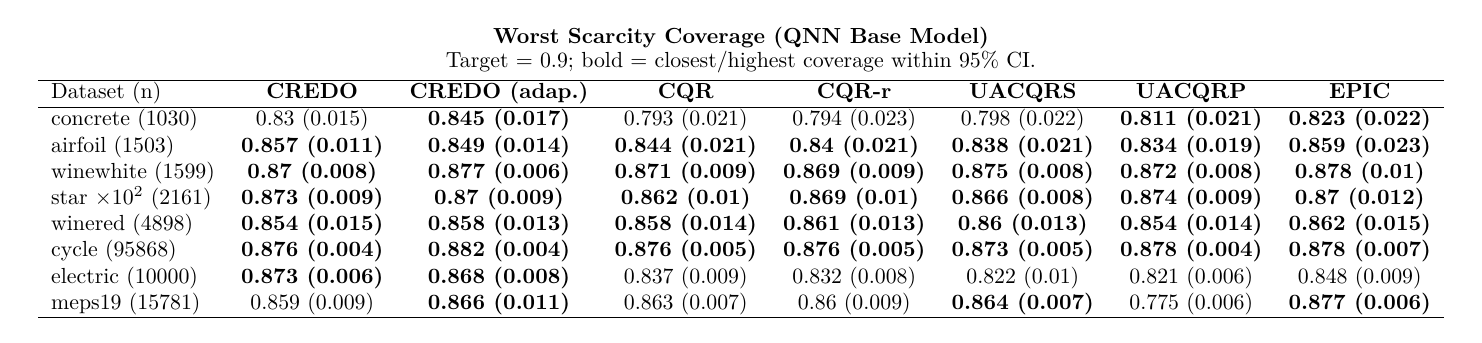
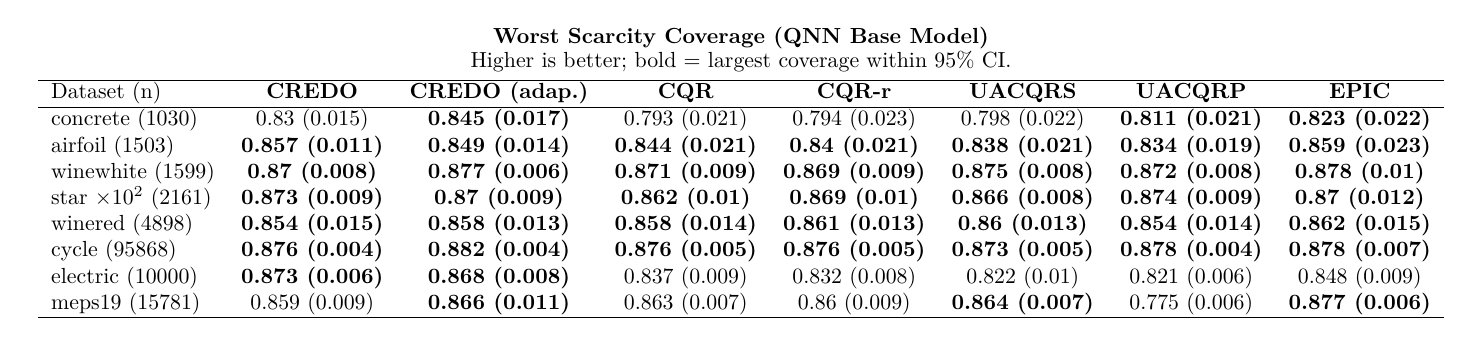
changing captions and also the performance tables

Changed region(s): [[0.3104, 0.1458, 0.7139, 0.2041]]

diff --git a/rebutal_images_and_tables/caption_table_worst_scarcity_coverage.md b/rebutal_images_and_tables/caption_table_worst_scarcity_coverage.md
@@ -1,1 +1,1 @@
-**Worst Scarcity Quantile Coverage (target $1 - \alpha = 0.90$):** Worst-case coverage across scarcity quantile bins, using QNN as the shared backbone across all methods. Observations are ranked by a kNN-based scarcity score and split into 4 bins, from the most populated to the most data-sparse regions. Parentheses show $2\times$ the standard deviation; bold marks the highest coverage within a 95\% confidence interval. While methods perform similarly on most datasets, CREDO consistently ranks among the top performers across all datasets, whereas competing methods fail to do so in at least one dataset.
+**Worst Scarcity Quantile Coverage (higher is better):** Worst-case coverage across scarcity quantile bins, using QNN as the shared backbone across all methods. Observations are ranked by a kNN-based scarcity score and split into 4 bins, from the most populated to the most data-sparse regions. Parentheses show $2\times$ the standard deviation; bold marks the highest coverage within a $95\%$ confidence interval. While methods perform similarly on most datasets, CREDO consistently ranks among the top performers across all datasets, whereas competing methods fail to do so in at least one dataset.

diff --git a/rebutal_images_and_tables/caption_table_smis.md b/rebutal_images_and_tables/caption_table_smis.md
@@ -1,1 +1,1 @@
-**SMIS (lower is better):** SMIS results using QNN as the shared backbone across all methods. Parentheses show $2\times$ the standard deviation; bold marks the best method within a 95\% confidence interval (ties allowed). CREDO remains a top performer in 5 out of 8 datasets, with the strongest results on smaller datasets such as *concrete*, *winewhite*, *star*, and *winered*, confirming that the method retains competitive interval efficiency even when architectural differences are controlled for.
+**SMIS (lower is better):** SMIS results using QNN as the shared backbone across all methods. Parentheses show $2\times$ the standard deviation; bold marks the best method within a $95\%$ confidence interval (ties allowed). CREDO remains a top performer in 5 out of 8 datasets, with the strongest results on smaller datasets such as *concrete*, *winewhite*, *star*, and *winered*, confirming that the method retains competitive interval efficiency even when architectural differences are controlled for.

diff --git a/rebutal_images_and_tables/caption_table_wsc.md b/rebutal_images_and_tables/caption_table_wsc.md
@@ -1,1 +1,1 @@
-**Worst Slab Coverage (higher is better):** WSC results using QNN as the shared backbone across all methods. Parentheses show $2\times$ the standard deviation; bold marks the best method within a 95\% confidence interval (ties allowed). Methods perform similarly overall, yet CREDO ranks as a top performer in 7 out of 8 datasets, confirming that its epistemic adaptivity does not come at the cost of worst-case spatial coverage.
+**Worst Slab Coverage (higher is better):** WSC results using QNN as the shared backbone across all methods. Parentheses show $2\times$ the standard deviation; bold marks the best method within a $95\%$ confidence interval (ties allowed). Methods perform similarly overall, yet CREDO ranks as a top performer in 7 out of 8 datasets, confirming that its epistemic adaptivity does not come at the cost of worst-case spatial coverage.
